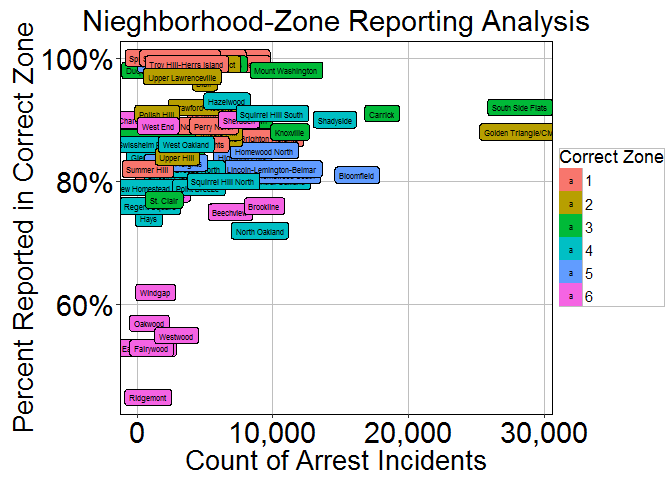
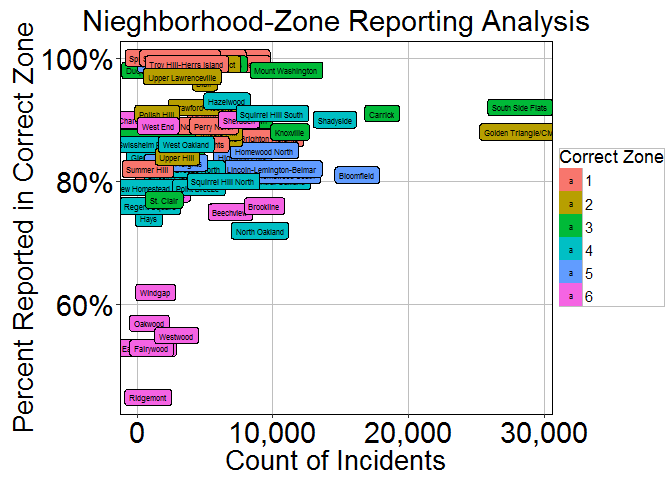
updated phrasing, formatted plots

Changed region(s): [[0.25, 0.9375, 0.7188, 1.0]]

diff --git a/Data_Problem_Analysis.md b/Data_Problem_Analysis.md
@@ -1,3 +1,7 @@
+This is an analysis of potential data problems in the Pittsburgh Police Incident Blotter Archive.
+
+These are the R packages used in this analysis:
+
 ``` r
 library(rmarkdown)
 library(knitr)
@@ -8,7 +12,9 @@ library(ggmap)
 library(scales)
 ```
 
-This is an analysis of potential data problems in the Pittsburgh Police Incident Blotter Archive.
+Refer to the Exploratory Analysis file on my GitHub page for an intro on working with this data
+
+<https://github.com/conorotompkins/pgh-crime/blob/master/Exploratory_Analysis_rmarkdown_github.md>
 
 Zone reporting consistency
 ==========================
@@ -32,7 +38,7 @@ df_map_zones <- df %>%
   mutate(zone = as.factor(paste("Zone:", zone)))
 ```
 
-In this veiw, the data looks accurate
+In this vieww, the data looks accurate
 
 ``` r
 city_map_11 +
@@ -53,10 +59,10 @@ city_map_11 +
 One note of concern is that 5% of the data is outside the x,y coordinates in this map
 
 ``` r
-paste0(round(22716 / nrow(df_map_zones), 2), "%")
+paste0(round(22716 / nrow(df_map_zones), 2) * 100, "%")
 ```
 
-    ## [1] "0.05%"
+    ## [1] "5%"
 
 ``` r
 city_map_12 <-  get_map(location = "Oakland, Pittsburgh, PA",
@@ -64,37 +70,7 @@ city_map_12 <-  get_map(location = "Oakland, Pittsburgh, PA",
                maptype = "toner", 
                source = "stamen",
                messaging = FALSE)
-```
 
-    ## Map from URL : http://maps.googleapis.com/maps/api/staticmap?center=Oakland,+Pittsburgh,+PA&zoom=12&size=640x640&scale=2&maptype=terrain&sensor=false
-
-    ## Information from URL : http://maps.googleapis.com/maps/api/geocode/json?address=Oakland,%20Pittsburgh,%20PA&sensor=false
-
-    ## Map from URL : http://tile.stamen.com/toner/12/1137/1542.png
-
-    ## Map from URL : http://tile.stamen.com/toner/12/1138/1542.png
-
-    ## Map from URL : http://tile.stamen.com/toner/12/1139/1542.png
-
-    ## Map from URL : http://tile.stamen.com/toner/12/1137/1543.png
-
-    ## Map from URL : http://tile.stamen.com/toner/12/1138/1543.png
-
-    ## Map from URL : http://tile.stamen.com/toner/12/1139/1543.png
-
-    ## Map from URL : http://tile.stamen.com/toner/12/1137/1544.png
-
-    ## Map from URL : http://tile.stamen.com/toner/12/1138/1544.png
-
-    ## Map from URL : http://tile.stamen.com/toner/12/1139/1544.png
-
-    ## Map from URL : http://tile.stamen.com/toner/12/1137/1545.png
-
-    ## Map from URL : http://tile.stamen.com/toner/12/1138/1545.png
-
-    ## Map from URL : http://tile.stamen.com/toner/12/1139/1545.png
-
-``` r
 city_map_12 <- ggmap(city_map_12)
 ```
 
@@ -123,6 +99,8 @@ Neighborhood reporting consistency
 ==================================
 
 Does the data for the Neighborhoods look the same?
+
+Let's just look at the top 10 Neighorhoods in terms of \# of incidents
 
 ``` r
 neighborhoods_top10 <- df %>% 
@@ -196,7 +174,7 @@ df_zone_nbh <- df %>%
 
 ``` r
 ggplot(df_zone_nbh, aes(zone, reorder(neighborhood, n), fill = n)) +
-  geom_tile() +
+  geom_tile(color = "grey") +
   facet_wrap(~zone,
              nrow = 1,
              scales = "free_x") +
@@ -217,7 +195,7 @@ ggplot(df_zone_nbh, aes(zone, reorder(neighborhood, n), fill = n)) +
 
 What are the drivers of the incorrect assignments?
 
-First, we need to identify the correct Zones for Neighborhoods
+First, we need to identify the correct Zone for each Neighborhood
 
 My method is to find the Zone with the highest \# of incidents for a Neighborhood
 
@@ -235,6 +213,8 @@ df_correct_zone <- df %>%
   mutate(correct_zone = zone) %>% 
   select(correct_zone, neighborhood)
 ```
+
+Testing this method for Zone 1:
 
 ``` r
 df_correct_zone %>% 
@@ -263,6 +243,8 @@ df_correct_zone %>%
     ## 17            1            Summer Hill
     ## 18            1 Troy Hill-Herrs Island
 
+Testing this method for Zone 2:
+
 ``` r
 df_correct_zone %>% 
   filter(correct_zone == "2")
@@ -283,6 +265,8 @@ df_correct_zone %>%
     ## 10            2             Terrace Village
     ## 11            2                  Upper Hill
     ## 12            2         Upper Lawrenceville
+
+This approximation appears correct
 
 Then, calculate how many of a neighborhood's incidents were reported in the correct zone
 
@@ -319,7 +303,7 @@ ggplot(df_zones_nbh, aes(count, percent_correct, label = neighborhood, fill = co
   geom_label(size = 2) +
   scale_y_continuous(labels = percent) +
   scale_x_continuous(labels = comma) +
-  labs(x = "Count of Arrest Incidents",
+  labs(x = "Count of Incidents",
        y = "Percent Reported in Correct Zone",
        title = "Nieghborhood-Zone Reporting Analysis") +
   guides(fill = guide_legend(title = "Correct Zone")) +
@@ -329,6 +313,8 @@ ggplot(df_zones_nbh, aes(count, percent_correct, label = neighborhood, fill = co
 ![](Data_Problem_Analysis_files/figure-markdown_github/correct%20zone%20percentage%20plot-1.png)
 
 Zone 6 appears to have the lowest % of correct Zone assignments. Southside Flats and Golden Triangle/Civic Arena have most of the incorrect assignments
+
+Our original question was: What are the drivers of the incorrect assignments?
 
 ``` r
 df_bad_zones_helper1 <- df %>% 
